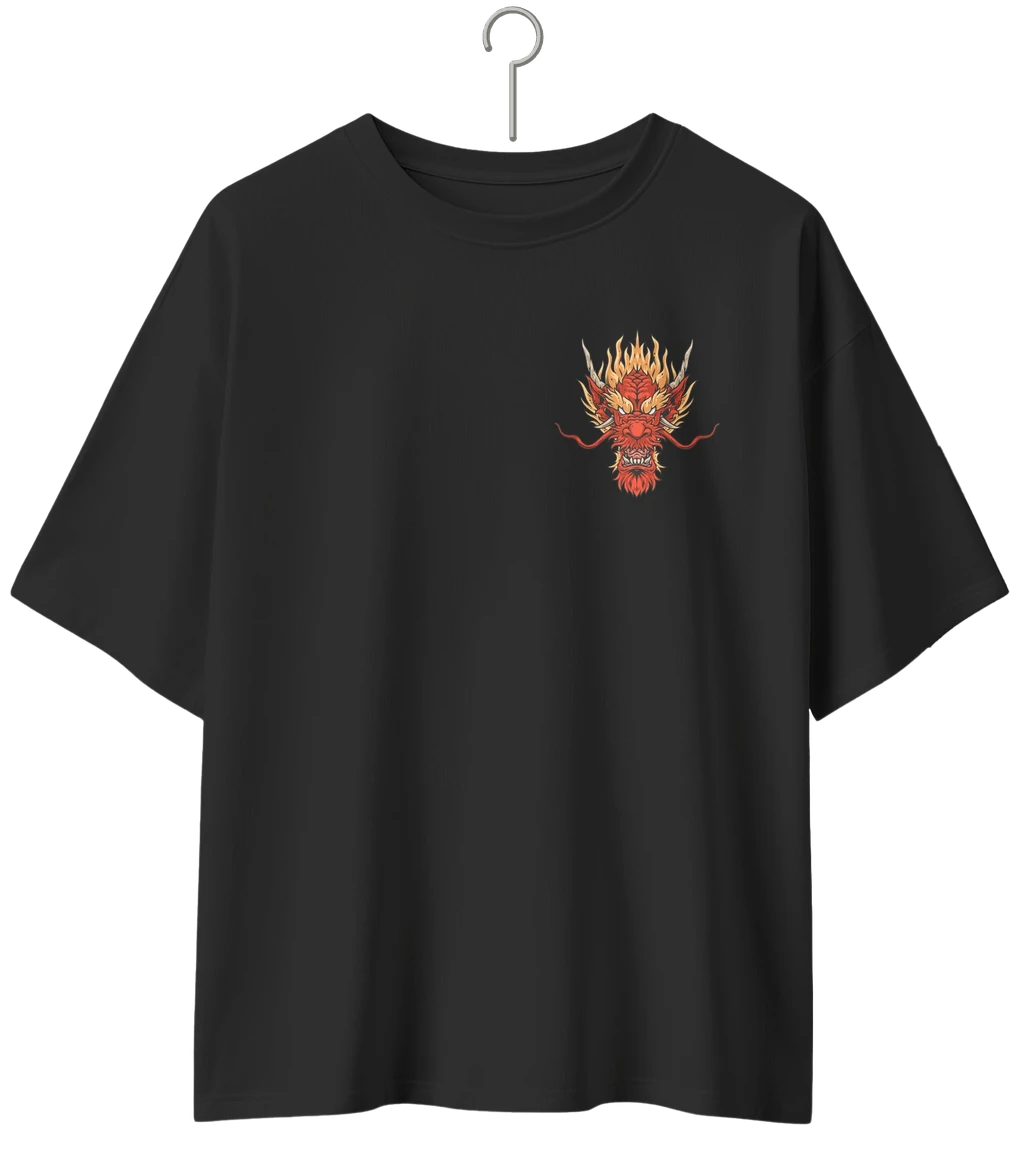
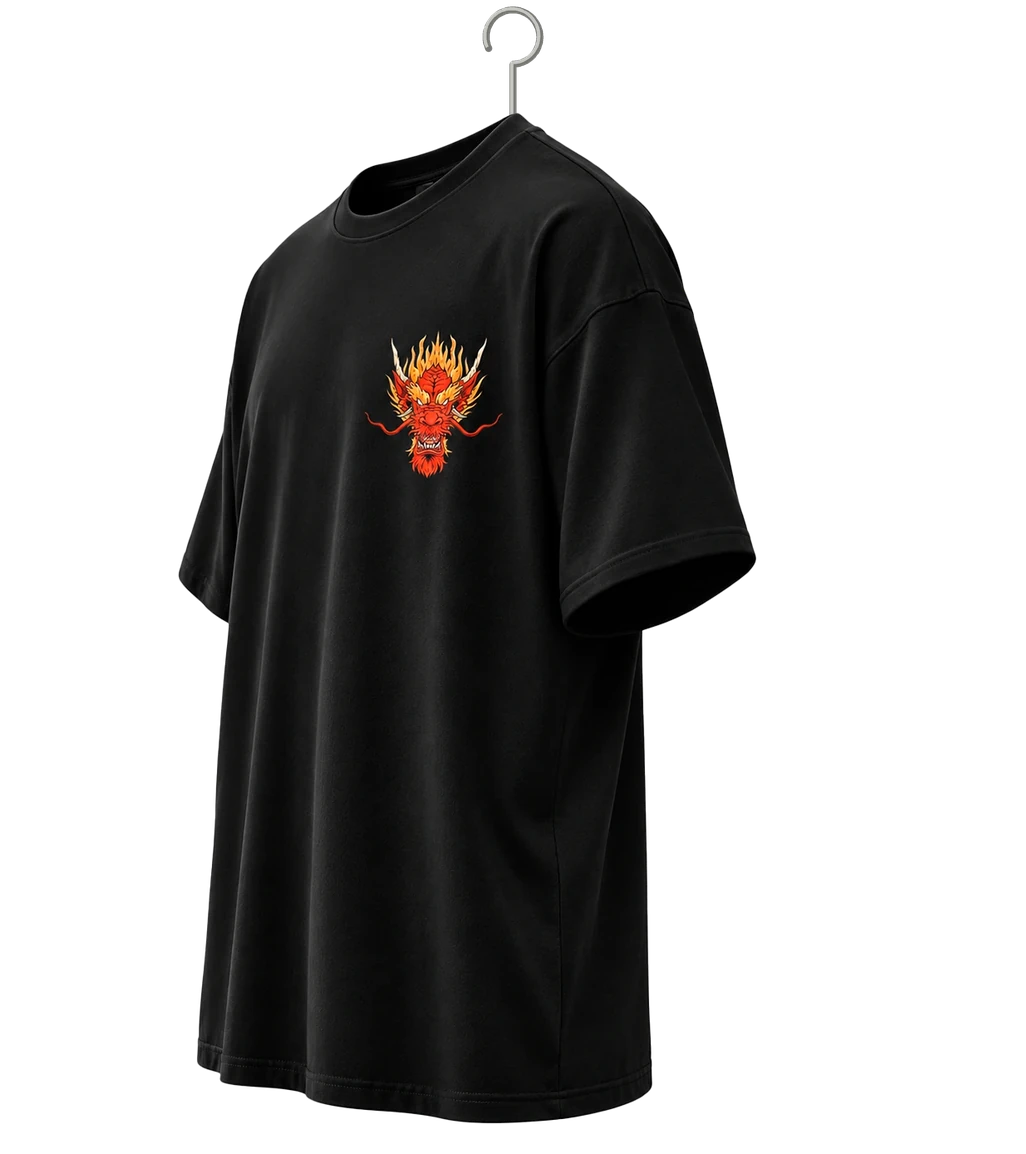
Use the angled mockups as the front of each Kria shirt
Claude-Session: https://claude.ai/code/session_01KS3zFa9ZHKkygYPNsyMhrA

diff --git a/src/components/kria-rack.tsx b/src/components/kria-rack.tsx
@@ -33,7 +33,7 @@ const garments: Garment[] = [
 
 const SPACING = 11; // distance between hangers, in cqw
 const HOVER_SHIFT = 9.5; // how far neighbours slide away from the hovered piece
-const SIDE_ANGLE = -66; // resting rotation of a piece on the rack
+const SIDE_ANGLE = -42; // resting rotation on the rack (the front mockups are already angled)
 
 function Shirt({ garment, side }: { garment: Garment; side: "front" | "back" }) {
   const print = side === "front" ? garment.front : garment.back;
